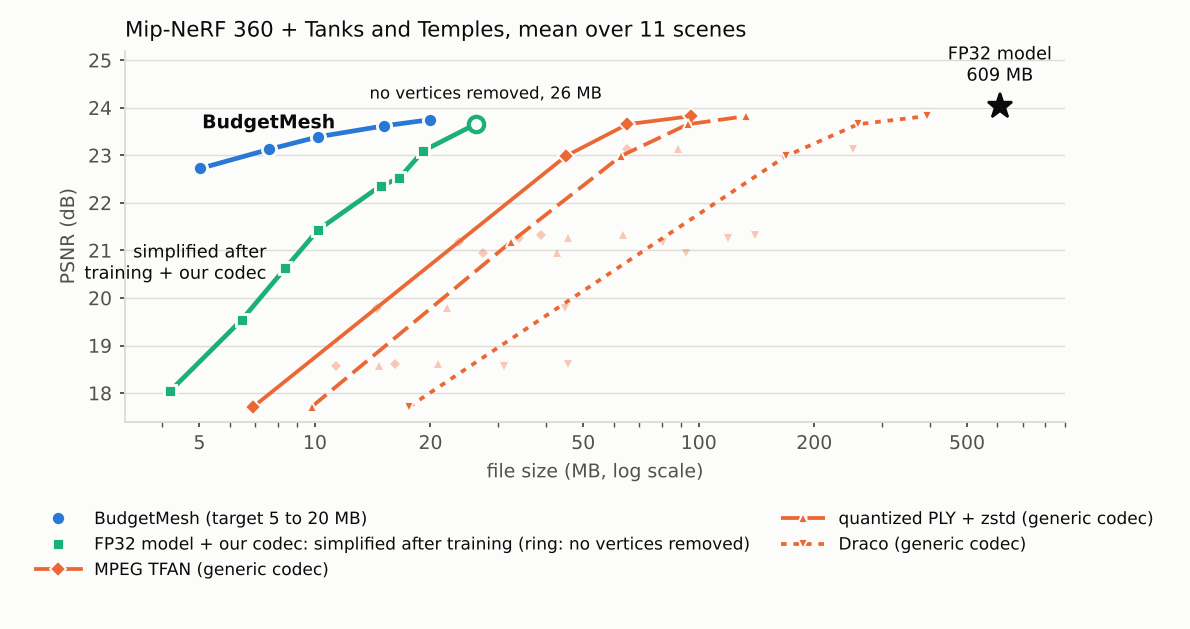
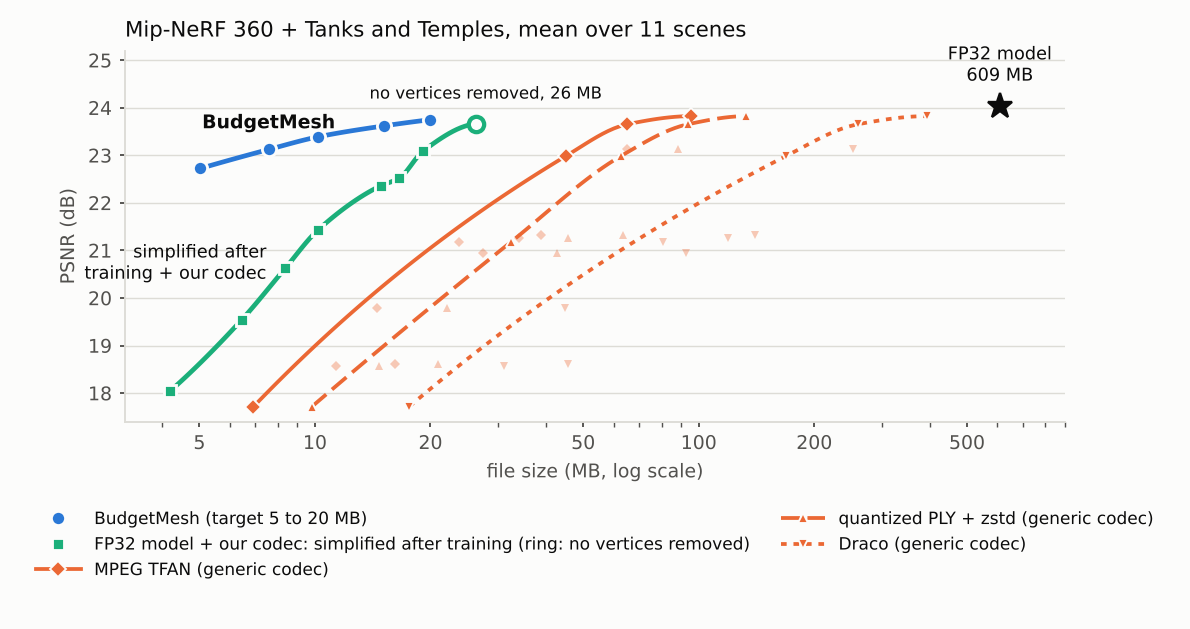
RD figure: smooth monotone curves through the points
Claude-Session: https://claude.ai/code/session_01CTmJ8bXaKwgwrH89NaZre1

diff --git a/paper/figures/make_figures_v4.py b/paper/figures/make_figures_v4.py
@@ -36,14 +36,20 @@ for l in open('release-batch22-v1/results/generic-codecs-all-scenes-2026-11-10.m
         gen['Draco, RGB only'][s] = cell(c[7]); gen['baked texture + Draco'][s] = cell(c[8])
 def mean(d): return (st.mean(v[0] for v in d.values()), st.mean(v[1] for v in d.values()), len(d))
 # ---------------------------------------------------------------- figure 1
+import numpy as np
+from scipy.interpolate import PchipInterpolator
+def smooth(xs_, ys_, n=80):   # monotone (PCHIP) curve through the points, in log size
+    o = np.argsort(xs_); lx = np.log(np.asarray(xs_, float)[o]); yy = np.asarray(ys_, float)[o]
+    if len(lx) < 3: return np.exp(lx), yy
+    g = np.linspace(lx[0], lx[-1], n); return np.exp(g), PchipInterpolator(lx, yy)(g)
 fig, ax = plt.subplots(figsize=(7.0, 3.7))
 xs, ys = zip(*[(st.mean(ctrl[(s, t)][0] for s in MIP), st.mean(ctrl[(s, t)][1] for s in MIP)) for t in (5, 7.5, 10, 15, 20)])
-ax.plot(xs, ys, '-', color=BLUE, lw=2, zorder=5); ax.plot(xs, ys, 'o', color=BLUE, ms=6, mec=SURF, mew=1.2, zorder=6, label='BudgetMesh (target 5 to 20 MB)')
+ax.plot(*smooth(xs, ys), '-', color=BLUE, lw=2, zorder=5); ax.plot(xs, ys, 'o', color=BLUE, ms=6, mec=SURF, mew=1.2, zorder=6, label='BudgetMesh (target 5 to 20 MB)')
 ax.annotate('BudgetMesh', (xs[1], ys[1]), textcoords='offset points', xytext=(0, 9), ha='center', fontsize=8, color=INK, fontweight='bold')
 K = min(len(v) for v in simp.values()); gx, gy = [], []
 for k in range(K): pts = [sorted(simp[s], reverse=True)[k] for s in MIP]; gx.append(st.mean(p[0] for p in pts)); gy.append(st.mean(p[1] for p in pts))
 x0, y0, _ = mean(gen['our codec, all vertices'])  # the same FP32 model with no vertex removed: the end point of this family
-ax.plot([x0] + gx, [y0] + gy, '-', color=AQUA, lw=2, zorder=4); ax.plot(gx, gy, 's', color=AQUA, ms=5.5, mec=SURF, mew=1.2, zorder=4, label='FP32 model + our codec: simplified after training (ring: no vertices removed)')
+ax.plot(*smooth([x0] + gx, [y0] + gy), '-', color=AQUA, lw=2, zorder=4); ax.plot(gx, gy, 's', color=AQUA, ms=5.5, mec=SURF, mew=1.2, zorder=4, label='FP32 model + our codec: simplified after training (ring: no vertices removed)')
 ax.annotate('simplified after\ntraining + our codec', (gx[4], gy[4]), textcoords='offset points', xytext=(-8, 2), ha='right', va='center', fontsize=7.5, color=INK)
 fx, fy = st.mean(FP[s][0] for s in MIP), st.mean(FP[s][1] for s in MIP)
 ax.plot([fx], [fy], '*', color=INK, ms=11, zorder=6); ax.annotate('FP32 model\n%.0f MB' % fx, (fx, fy), textcoords='offset points', xytext=(0, 8), ha='center', va='bottom', fontsize=7.5, color=INK)
@@ -62,7 +68,9 @@ HULL = {}
 for codec, name, ls, mk in (('tfan', 'MPEG TFAN', '-', 'D'), ('zstd', 'quantized PLY + zstd', (0, (5, 2)), '^'), ('draco', 'Draco', (0, (1.5, 1.8)), 'v')):
     allp = [(v[codec], v['psnr']) for v in G33.values()]; h = upper_hull(allp); HULL[codec] = h
     ax.plot([q[0] for q in allp], [q[1] for q in allp], mk, color=ORANGE, ms=3.0, mec='none', alpha=0.35, zorder=2)
-    ax.plot([q[0] for q in h], [q[1] for q in h], ls=ls, marker=mk, color=ORANGE, lw=1.6, ms=4.6, mec=SURF, mew=0.8, zorder=3, label=name + ' (generic codec)')
+    ax.plot(*smooth([q[0] for q in h], [q[1] for q in h]), ls=ls, color=ORANGE, lw=1.6, zorder=3)
+    ax.plot([q[0] for q in h], [q[1] for q in h], ls='none', marker=mk, color=ORANGE, ms=4.6, mec=SURF, mew=0.8, zorder=3)
+    ax.plot([], [], ls=ls, marker=mk, color=ORANGE, lw=1.6, ms=4.6, mec=SURF, mew=0.8, label=name + ' (generic codec)')
 ax.set_xscale('log'); ax.set_xlim(3.2, 900)
 import matplotlib.ticker as mt
 ax.xaxis.set_major_locator(mt.FixedLocator([5, 10, 20, 50, 100, 200, 500])); ax.xaxis.set_major_formatter(mt.FuncFormatter(lambda v, _: '%g' % v)); ax.xaxis.set_minor_formatter(mt.NullFormatter())
